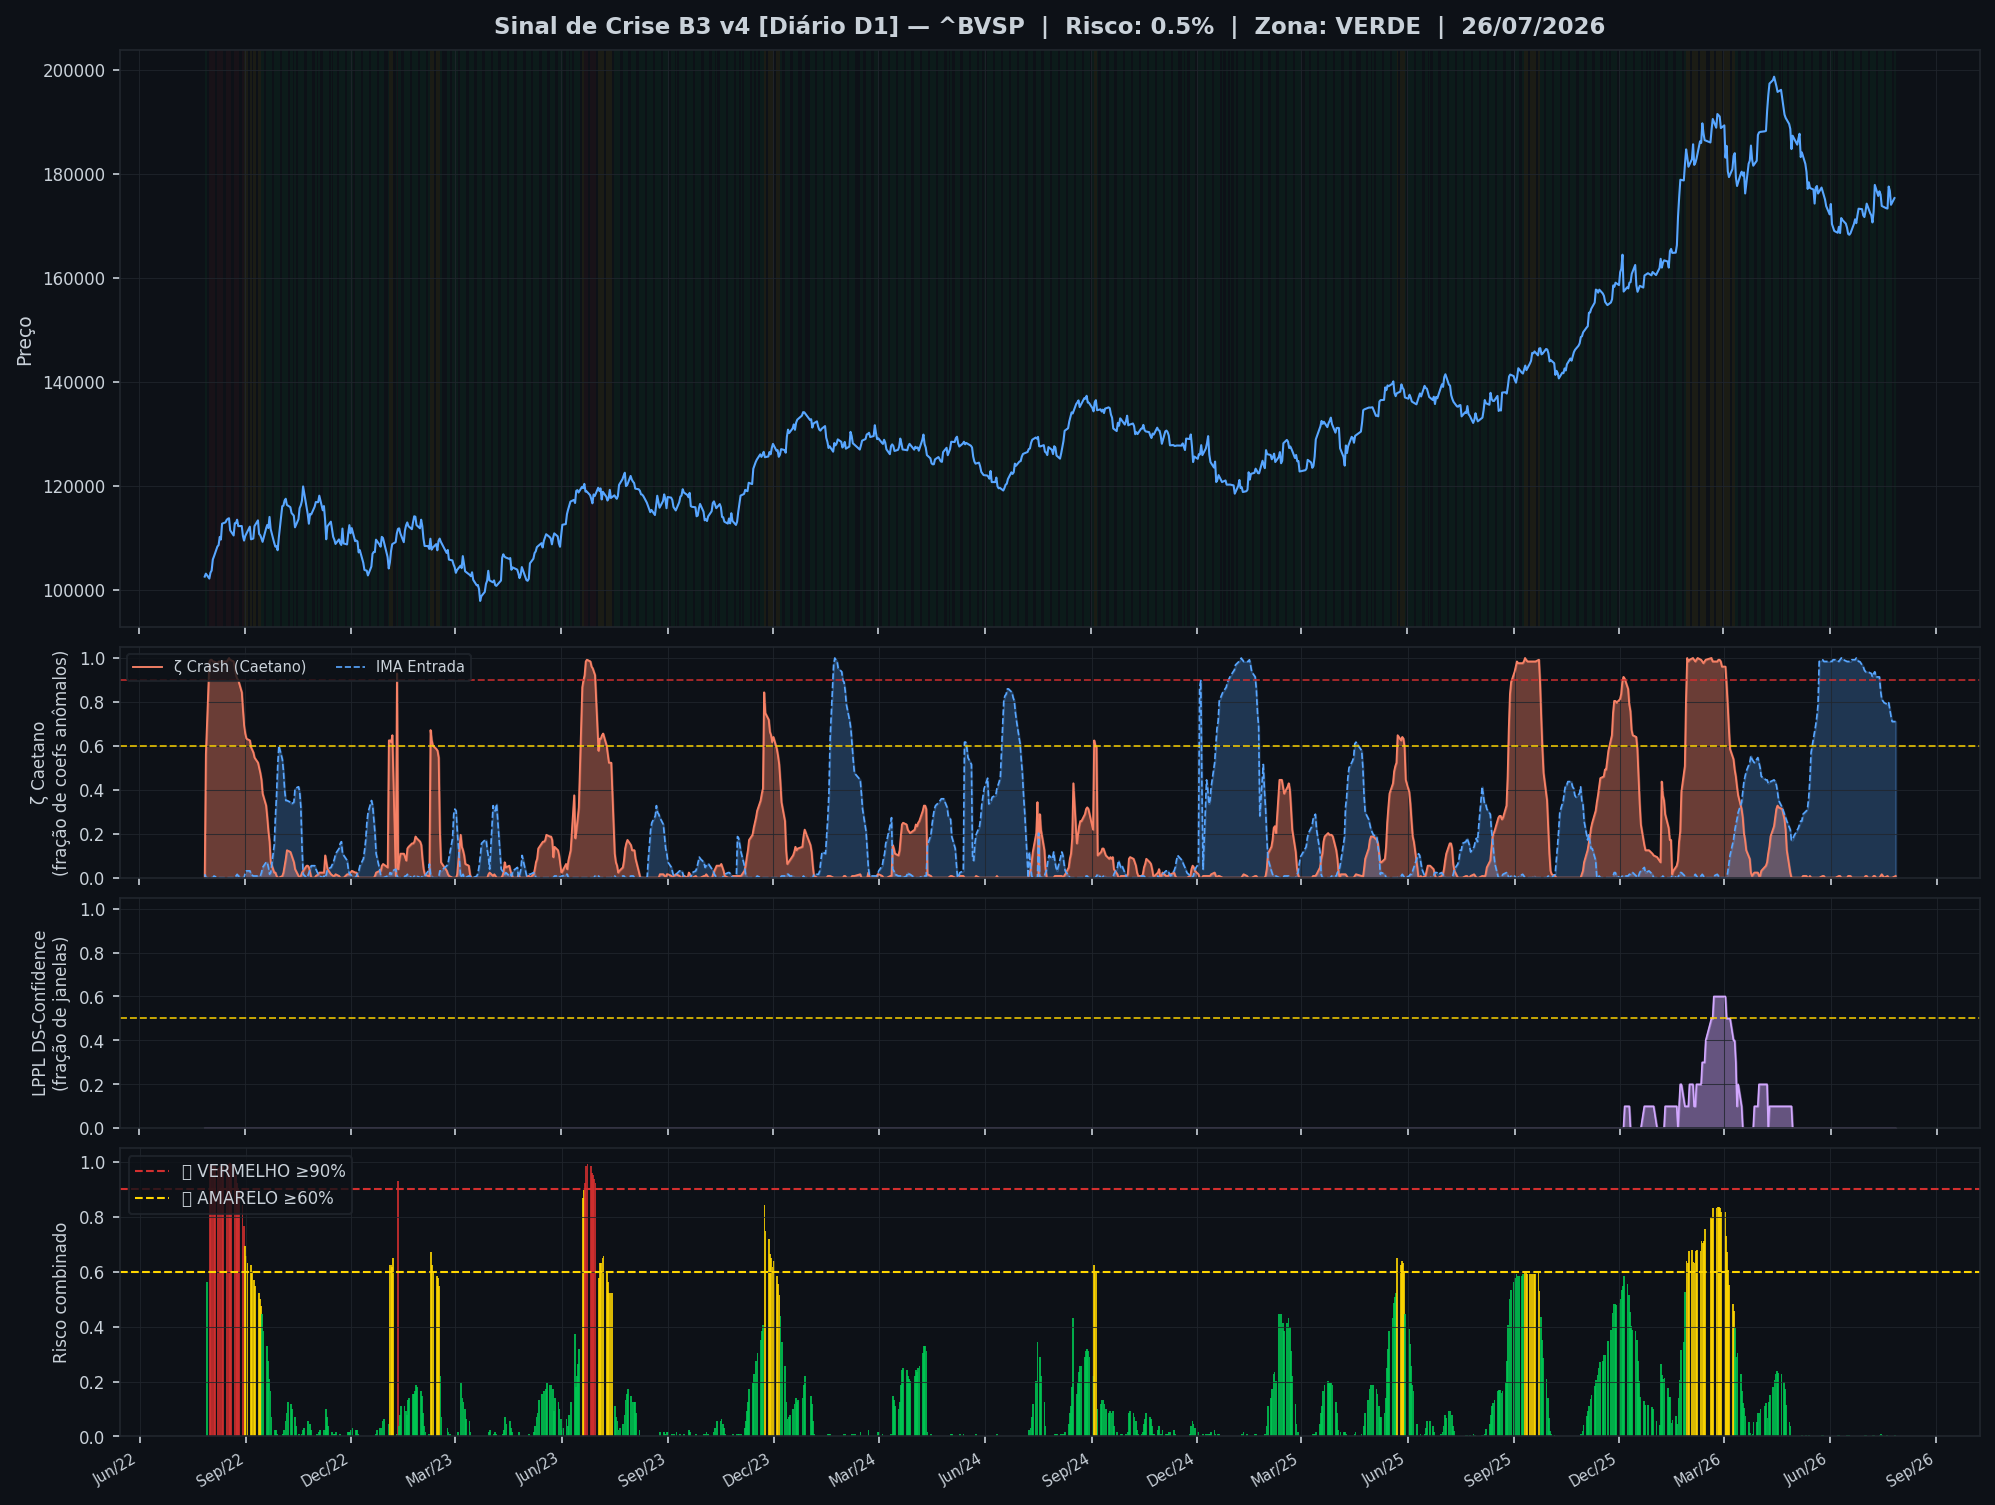
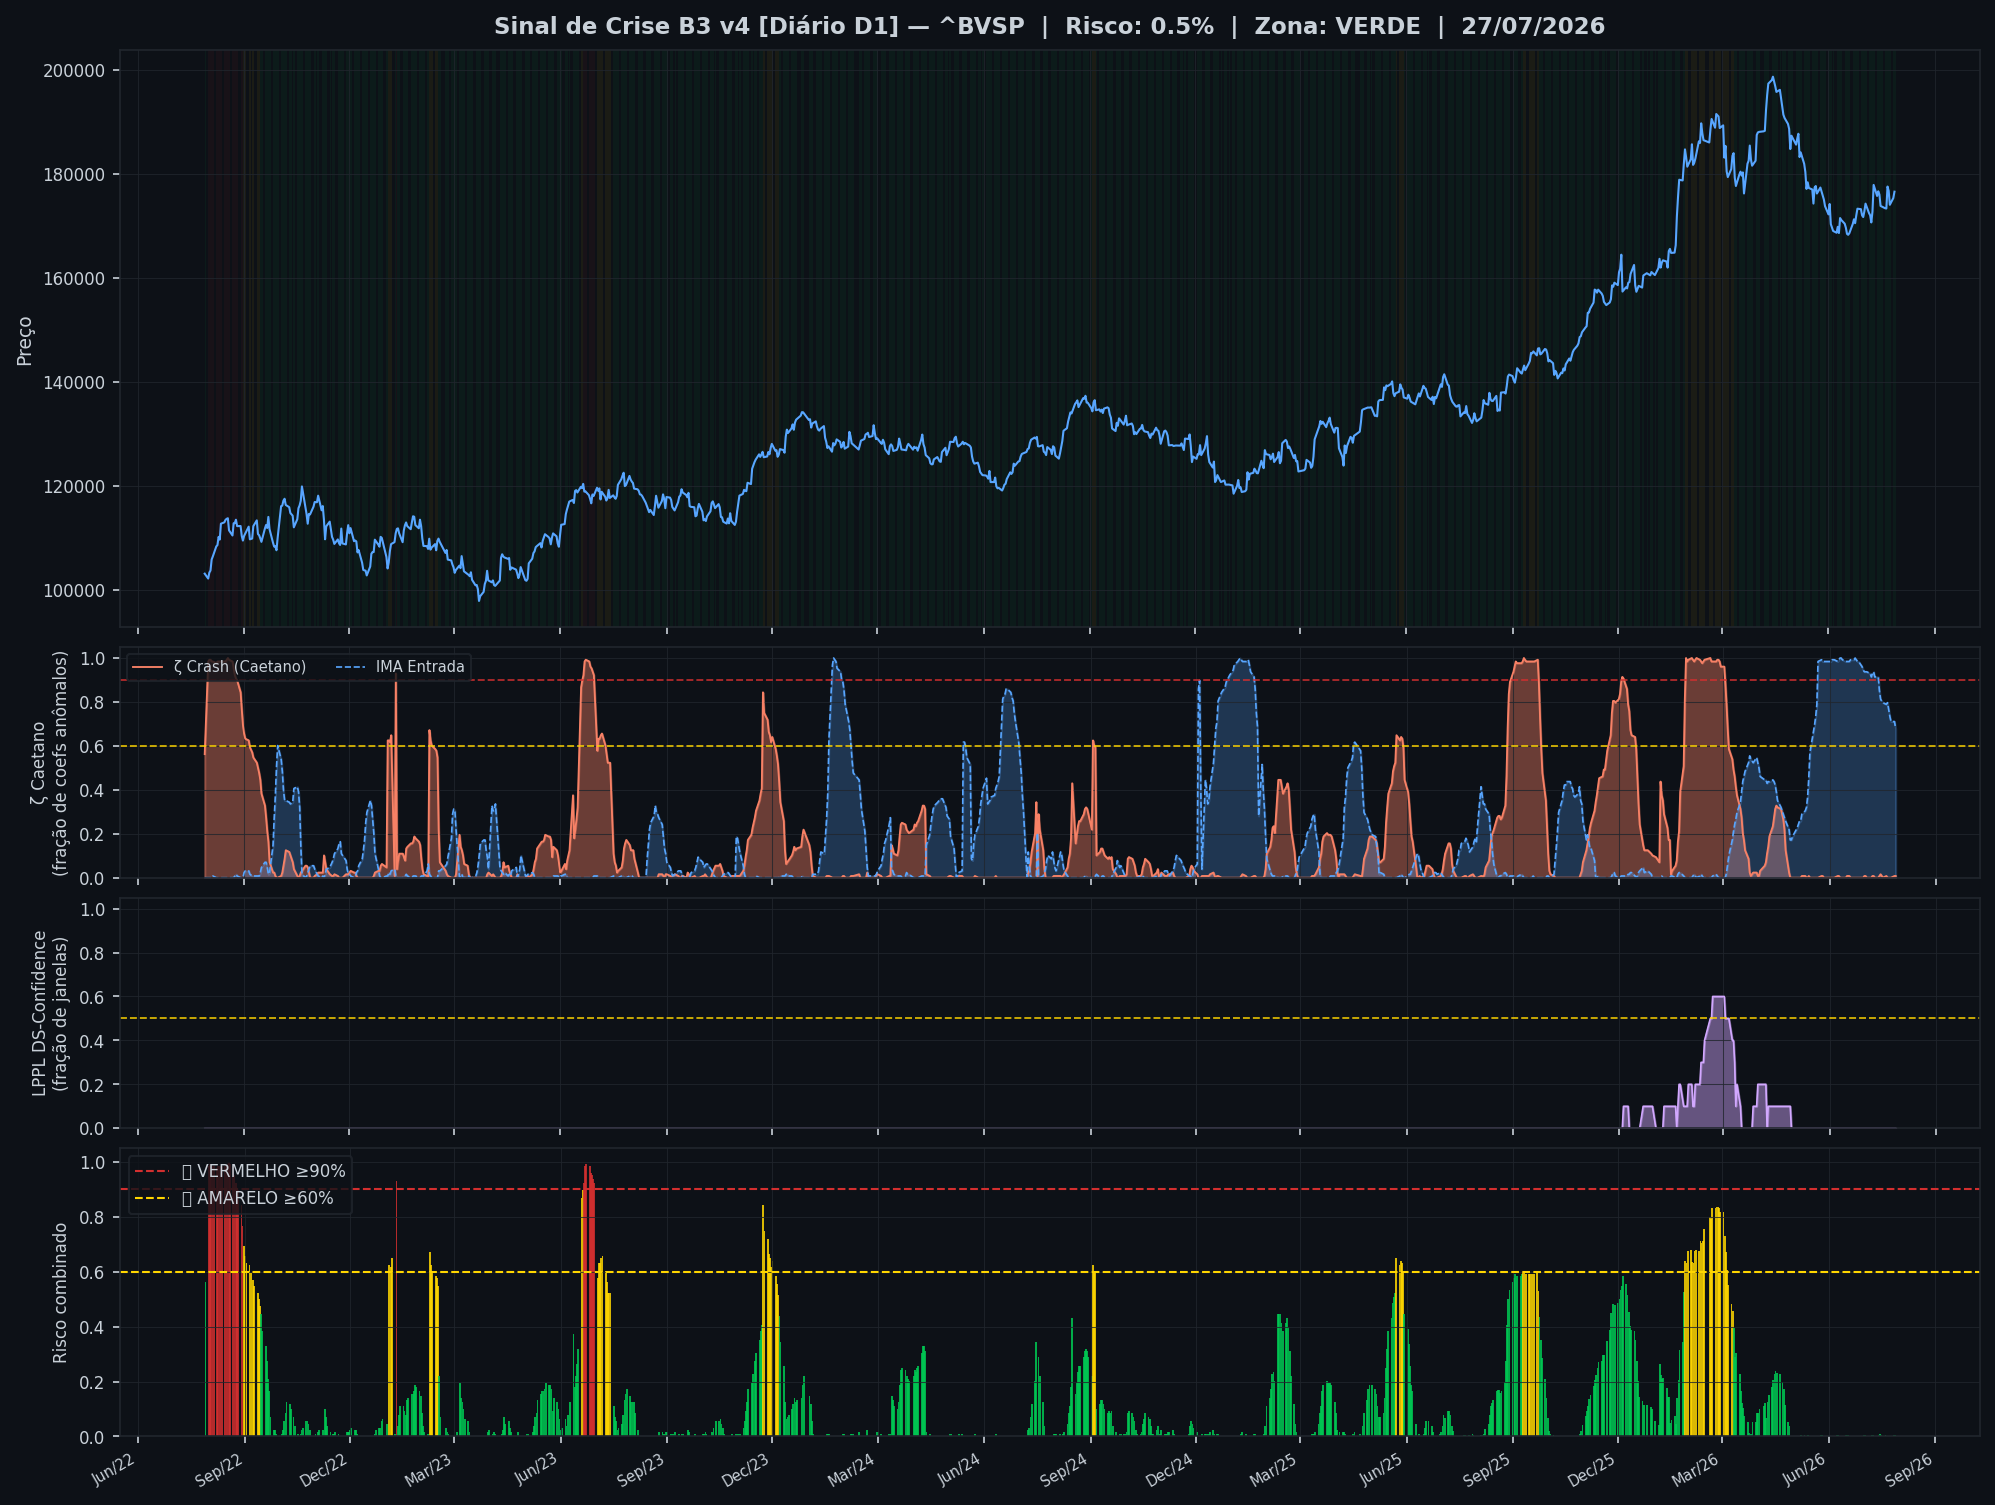
🤖 Auto: Sinal 28/07/2026 19:00

diff --git a/content/diario/2026-07-27.md b/content/diario/2026-07-27.md
@@ -1,0 +1,105 @@
+---
+title: "🟢 Diário 27/07/2026 — VERDE"
+date: 2026-07-28
+tags: [diario]
+---
+
+> [!success] 🟢 **VERDE** — Risco 0% · ＝ +0 p.p. vs leitura anterior
+> `░░░░░░░░░░░░░░░░░░░░`
+> Mercado sem sinais relevantes de estresse.
+
+
+| Indicador | Valor |
+|---|---|
+| 🔴 ζ Crash — severidade da queda em curso | **1%** |
+| 🔵 ζ Entrada — estrutura de fundo | 68% |
+| 🫧 LPPL DS-Confidence | 0% |
+| 📊 Ibovespa | 176.565 pts |
+
+![Gráfico do sinal](../graficos/sinal_diario.png)
+
+## Últimos 30 pregões
+
+| Data | Zona | Risco | IMA Crash | Entrada | LPPL |
+|---|---|---|---|---|---|
+| 2026-07-27 21:00 | 🟢 VERDE | **0%** | 1% | 68% | 0% |
+| 2026-07-26 21:00 | 🟢 VERDE | **0%** | 1% | 71% | 0% |
+| 2026-07-23 21:00 | 🟢 VERDE | **0%** | 0% | 71% | 0% |
+| 2026-07-22 21:00 | 🟢 VERDE | **0%** | 0% | 73% | 0% |
+| 2026-07-21 21:00 | 🟢 VERDE | **0%** | 0% | 77% | 0% |
+| 2026-07-20 21:00 | 🟢 VERDE | **0%** | 0% | 80% | 0% |
+| 2026-07-19 21:00 | 🟢 VERDE | **0%** | 1% | 79% | 0% |
+| 2026-07-16 21:00 | 🟢 VERDE | **0%** | 0% | 80% | 0% |
+| 2026-07-15 21:00 | 🟢 VERDE | **0%** | 1% | 80% | 0% |
+| 2026-07-14 21:00 | 🟢 VERDE | **1%** | 2% | 81% | 0% |
+| 2026-07-13 21:00 | 🟢 VERDE | **0%** | 1% | 85% | 0% |
+| 2026-07-12 21:00 | 🟢 VERDE | **0%** | 0% | 91% | 0% |
+| 2026-07-09 21:00 | 🟢 VERDE | **0%** | 0% | 91% | 0% |
+| 2026-07-08 21:00 | 🟢 VERDE | **0%** | 1% | 94% | 0% |
+| 2026-07-07 21:00 | 🟢 VERDE | **0%** | 1% | 93% | 0% |
+| 2026-07-06 21:00 | 🟢 VERDE | **0%** | 0% | 91% | 0% |
+| 2026-07-05 21:00 | 🟢 VERDE | **0%** | 0% | 93% | 0% |
+| 2026-07-02 21:00 | 🟢 VERDE | **0%** | 0% | 94% | 0% |
+| 2026-07-01 21:00 | 🟢 VERDE | **0%** | 1% | 94% | 0% |
+| 2026-06-30 21:00 | 🟢 VERDE | **0%** | 1% | 94% | 0% |
+| 2026-06-29 21:00 | 🟢 VERDE | **0%** | 0% | 95% | 0% |
+| 2026-06-28 21:00 | 🟢 VERDE | **0%** | 0% | 96% | 0% |
+| 2026-06-25 21:00 | 🟢 VERDE | **0%** | 0% | 98% | 0% |
+| 2026-06-24 21:00 | 🟢 VERDE | **0%** | 0% | 98% | 0% |
+| 2026-06-23 21:00 | 🟢 VERDE | **0%** | 0% | 99% | 0% |
+| 2026-06-22 21:00 | 🟢 VERDE | **0%** | 0% | 100% | 0% |
+| 2026-06-21 21:00 | 🟢 VERDE | **0%** | 0% | 99% | 0% |
+| 2026-06-18 21:00 | 🟢 VERDE | **0%** | 0% | 99% | 0% |
+| 2026-06-17 21:00 | 🟢 VERDE | **0%** | 1% | 98% | 0% |
+| 2026-06-16 21:00 | 🟢 VERDE | **0%** | 1% | 98% | 0% |
+
+## Monitor Multi-Ativo
+
+**0% dos ativos em tensão** (0🔴 0🟡) — quanto mais ativos disparam juntos, mais confiável o sinal.
+
+| Zona | Ativo | Setor | IMA Crash | IMA Entrada |
+|---|---|---|---|---|
+| 🟢 | **USD/BRL** | Câmbio | 13.3% | 0.0% |
+| 🟢 | **VALE** | Mineração | 3.9% | 0.8% |
+| 🟢 | **ITAUUNIBANCO** | Financeiro | 3.9% | 0.8% |
+| 🟢 | **PETROBRAS** | Petróleo | 3.9% | 0.8% |
+| 🟢 | **AXIA ENERGIA** | Energia | 3.9% | 0.8% |
+| 🟢 | **PETROBRAS** | Petróleo | 3.9% | 0.8% |
+| 🟢 | **BRADESCO** | Financeiro | 3.9% | 0.8% |
+| 🟢 | **SABESP** | Saneamento | 3.9% | 0.8% |
+| 🟢 | **ITAUSA** | Financeiro | 3.9% | 0.8% |
+| 🟢 | **B3** | Financeiro | 3.9% | 0.8% |
+| 🟢 | **WEG** | Industrial | 3.9% | 0.8% |
+| 🟢 | **AMBEV S/A** | Consumo | 3.9% | 0.8% |
+| 🟢 | **BTGP BANCO** | Financeiro | 3.9% | 0.8% |
+| 🟢 | **EMBRAER** | Outros | 3.9% | 0.8% |
+| 🟢 | **BRASIL** | Financeiro | 3.9% | 0.8% |
+| 🟢 | **ENEVA** | Energia | 3.9% | 0.8% |
+| 🟢 | **EQUATORIAL** | Energia | 3.9% | 0.8% |
+| 🟢 | **COPEL** | Energia | 3.9% | 0.8% |
+| 🟢 | **PRIO** | Petróleo | 3.9% | 0.8% |
+| 🟢 | **VIBRA** | Energia | 3.9% | 0.8% |
+| 🟢 | **LOCALIZA** | Aluguel | 3.9% | 0.8% |
+| 🟢 | **REDE D OR** | Saúde | 3.9% | 0.8% |
+| 🟢 | **ULTRAPAR** | Outros | 3.9% | 0.8% |
+| 🟢 | **GERDAU** | Siderurgia | 3.9% | 0.8% |
+| 🟢 | **SUZANO S.A.** | Papel/Celulose | 3.9% | 0.8% |
+| 🟢 | **TELEF BRASIL** | Outros | 3.9% | 0.8% |
+| 🟢 | **BBSEGURIDADE** | Financeiro | 3.9% | 0.8% |
+
+![Monitor multi-ativo](../graficos/multi_diario.png)
+
+*Página atualizada em 28/07/2026 19:00 BRT (leitura da barra de 2026-07-27 BRT).*
+
+> [!info]- Como interpretar (clique para expandir)
+> - **ζ Crash**: fração dos coeficientes wavelet acima do corte (Caetano & Yoneyama 2009). Escala absoluta: ζ=0,90 = 90% dos coeficientes anômalos — historicamente, quedas com ζ≥0,90 foram mais fundas e mais longas. **Mede a severidade do movimento em curso, não prevê o início da queda.**
+> - **ζ Entrada**: coeficientes negativos além do corte — estrutura de fundo, possível região de compra.
+> - **LPPL DS-Confidence**: fração de janelas (60–504 pregões) em que o modelo de bolha de Sornette produz um ajuste válido. 30% já é relevante; acima de 50% é forte evidência de estrutura de bolha.
+> - **Zonas com histerese**: o sinal só muda de zona ao cruzar o limiar de entrada, e só volta ao cruzar o de saída — evita flip-flop diário.
+
+
+---
+*Sinal de Crise B3 v4 · IMA Wavelet ([Caetano & Yoneyama, Physica-A 2007](https://doi.org/10.1016/j.physa.2007.03.054)) + LPPL DS-Confidence (Sornette, ETH-Zurich) · [Metodologia](metodologia) · [Histórico](historico)*
+
+> [!quote]- Aviso
+> Estudo acadêmico. Não constitui recomendação de investimento.

diff --git a/content/index.md b/content/index.md
@@ -8,7 +8,7 @@ tags: [home]
 
 Monitoramento diário e intraday do Ibovespa — **IMA Wavelet** (Prof. Marco Antonio Leonel Caetano, ITA/INSPER) + **LPPL DS-Confidence** (Prof. Didier Sornette, ETH-Zurich).
 
-*Última atualização: 28/07/2026 17:30 BRT · ^BVSP · Intraday 15min · v4*
+*Última atualização: 28/07/2026 19:00 BRT · ^BVSP · Diário D1 · v4*
 
 > [!success] 🟢 **VERDE** — Risco 0% · ＝ +0 p.p. vs leitura anterior
 > `░░░░░░░░░░░░░░░░░░░░`
@@ -17,10 +17,10 @@ Monitoramento diário e intraday do Ibovespa — **IMA Wavelet** (Prof. Marco An
 
 | Indicador | Valor |
 |---|---|
-| 🔴 ζ Crash — severidade da queda em curso | **0%** |
-| 🔵 ζ Entrada — estrutura de fundo | 41% |
+| 🔴 ζ Crash — severidade da queda em curso | **1%** |
+| 🔵 ζ Entrada — estrutura de fundo | 68% |
 | 🫧 LPPL DS-Confidence | 0% |
-| 📊 Ibovespa | 176.352 pts |
+| 📊 Ibovespa | 176.565 pts |
 
 **Multi-ativo:** 0% em tensão (0🔴 0🟡 de 27 ativos)
 
@@ -32,8 +32,13 @@ Monitoramento diário e intraday do Ibovespa — **IMA Wavelet** (Prof. Marco An
 
 | Data | Zona | Risco | IMA | LPPL |
 |---|---|---|---|---|
-| [28 Jul 2026](diario/2026-07-28) | 🟢 VERDE | **0%** | 0% | 0% |
-| [27 Jul 2026](diario/2026-07-27) | 🟢 VERDE | **4%** | 4% | 0% |
+| [27 Jul 2026](diario/2026-07-27) | 🟢 VERDE | **0%** | 1% | 0% |
+| [26 Jul 2026](diario/2026-07-26) | 🟢 VERDE | **0%** | 1% | 0% |
+| [23 Jul 2026](diario/2026-07-23) | 🟢 VERDE | **0%** | 0% | 0% |
+| [22 Jul 2026](diario/2026-07-22) | 🟢 VERDE | **0%** | 0% | 0% |
+| [21 Jul 2026](diario/2026-07-21) | 🟢 VERDE | **0%** | 0% | 0% |
+| [20 Jul 2026](diario/2026-07-20) | 🟢 VERDE | **0%** | 0% | 0% |
+| [19 Jul 2026](diario/2026-07-19) | 🟢 VERDE | **0%** | 1% | 0% |
 
 ## Navegação
 

diff --git a/content/historico.md b/content/historico.md
@@ -7,6 +7,7 @@ tags: [historico]
 
 | Data | Modo | Zona | Risco | IMA | LPPL |
 |---|---|---|---|---|---|
+| 2026-07-27 | diario | 🟢 VERDE | 0% | 1% | 0% |
 | 2026-07-28 16:45 | intraday | 🟢 VERDE | 0% | 0% | 0% |
 | 2026-07-28 16:30 | intraday | 🟢 VERDE | 0% | 0% | 0% |
 | 2026-07-28 16:15 | intraday | 🟢 VERDE | 0% | 0% | 0% |
